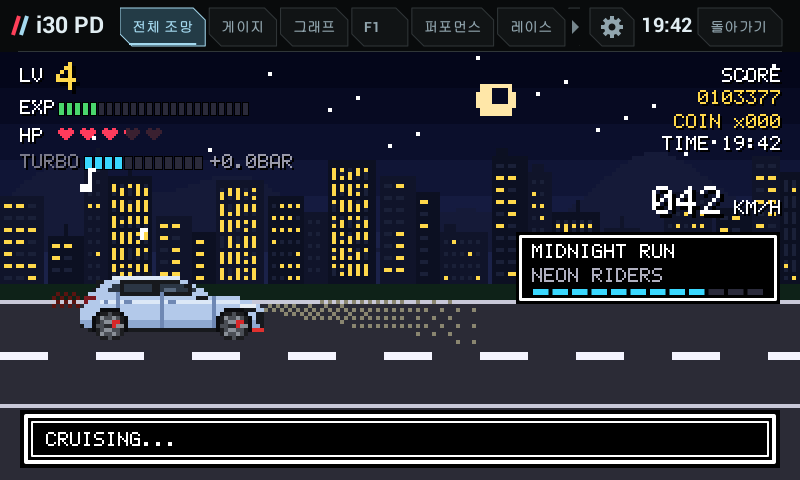
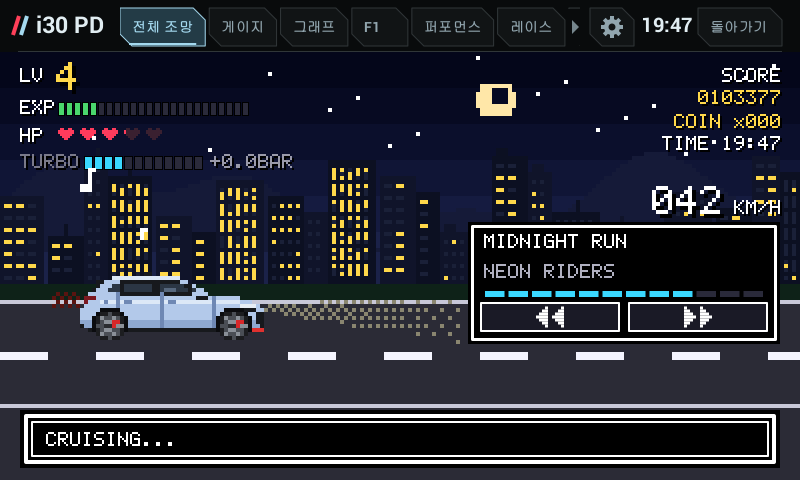
8비트 now playing: a bigger box (310 x 120, a 16 x 16 cover) with previous / next keys along the bottom
The keys send the media command the cassette's keys use (CassetteCluster.keyCmd, read by VehicleDash after the tap)
and flash yellow for a moment.

Changed region(s): [[0.5625, 0.4375, 1.0, 0.7188], [0.9688, 0.2812, 1.0, 0.3125], [0.8438, 0.0312, 0.875, 0.0625]]

diff --git a/shared/src/com/veloster/vehicle/PixelCluster.java b/shared/src/com/veloster/vehicle/PixelCluster.java
@@ -240,8 +240,8 @@ final class PixelCluster extends ClusterKit {
     @Override boolean showsMusic(){return !chase&&playing();}
     private boolean playing(){return music!=null&&music.playState==1&&music.title!=null&&music.title.length()>0;}
     // ---- now playing: a dialog box on the right, the cover shrunk to 14 x 14 pixels in a small palette ----------------
-    private static final float NP_L=516,NP_T=232,NP_R=780,NP_B=304;
-    private Bitmap npArt,npArtFrom;private String npTrack="";private long npSince;
+    private static final float NP_L=468,NP_T=222,NP_R=780,NP_B=344,BTN_T=NP_B-42,BTN_B=NP_B-12,BTN_MID=(NP_L+NP_R)/2;
+    private Bitmap npArt,npArtFrom;private String npTrack="";private long npSince,npPressAt;private int npPress;
     private void nowPlaying(Canvas c){
         if(!playing())return;
         String trk=music.title+"|"+music.artist;if(!trk.equals(npTrack)){npTrack=trk;npSince=now;}   // a new track starts at its first letter, 1.5 s still
@@ -249,19 +249,27 @@ final class PixelCluster extends ClusterKit {
         float tx=NP_L+16;
         if(artwork!=null){
             if(npArtFrom!=artwork){npArtFrom=artwork;npArt=pixelArt(artwork);}
-            blit(c,npArt,0,0,14,14,NP_L+12,NP_T+12,NP_L+12+48,NP_T+12+48);outline(c,NP_L+10,NP_T+10,NP_L+62,NP_T+62,0,2,0xff3a3a4a);tx=NP_L+72;
+            blit(c,npArt,0,0,16,16,NP_L+12,NP_T+12,NP_L+12+64,NP_T+12+64);outline(c,NP_L+10,NP_T+10,NP_L+78,NP_T+78,0,2,0xff3a3a4a);tx=NP_L+88;
         }
         float avail=NP_R-14-tx;
-        // the title marquees when it does not fit, the artist sits still under it
         Bitmap tb=label(music.title,W);
-        c.save();c.clipRect(tx,NP_T+10,tx+avail,NP_T+34);
-        marquee(c,tb,tx,NP_T+12,avail);
-        c.restore();
+        c.save();c.clipRect(tx,NP_T+10,tx+avail,NP_T+38);marquee(c,tb,tx,NP_T+12,avail);c.restore();
         String ar=music.artist==null?"":music.artist;
-        if(ar.length()>0){Bitmap ab=label(ar,0xffb0b0c0);c.save();c.clipRect(tx,NP_T+34,tx+avail,NP_T+54);marquee(c,ab,tx,NP_T+36,avail);c.restore();}
+        if(ar.length()>0){Bitmap ab=label(ar,0xffb0b0c0);c.save();c.clipRect(tx,NP_T+40,tx+avail,NP_T+66);marquee(c,ab,tx,NP_T+42,avail);c.restore();}
         // progress as blocks, like the EXP bar
-        if(music.durationMs>0&&music.positionMs>=0){int n=12,lit=Math.round(clamp(music.positionMs/(float)music.durationMs,0,1)*n);float bw=(avail)/n;
-            for(int i=0;i<n;i++){fill(c,tx+i*bw,NP_T+56,tx+(i+1)*bw-2,NP_T+64,0xff000000);fill(c,tx+i*bw+1,NP_T+57,tx+(i+1)*bw-3,NP_T+63,i<lit?0xff3ad8ff:0xff2a2a3a);}}
+        if(music.durationMs>0&&music.positionMs>=0){int n=12,lit=Math.round(clamp(music.positionMs/(float)music.durationMs,0,1)*n);float bw=avail/n;
+            for(int i=0;i<n;i++){fill(c,tx+i*bw,NP_T+68,tx+(i+1)*bw-2,NP_T+76,0xff000000);fill(c,tx+i*bw+1,NP_T+69,tx+(i+1)*bw-3,NP_T+75,i<lit?0xff3ad8ff:0xff2a2a3a);}}
+        // previous / next: two pixel keys along the bottom, yellow for a moment when pressed
+        for(int k=0;k<2;k++){float l=k==0?NP_L+12:BTN_MID+4,r=k==0?BTN_MID-4:NP_R-12;boolean hot=npPress==k+1&&now-npPressAt<220;
+            fill(c,l,BTN_T,r,BTN_B,hot?Y:0xff1a1a26);outline(c,l,BTN_T,r,BTN_B,0,2,hot?Y:W);
+            int ink=hot?0xff000000:W;float cx=(l+r)/2,cy=(BTN_T+BTN_B)/2;
+            for(int t=0;t<2;t++){float ox=cx+(t==0?-14:2);   // two pixel triangles: ◀◀ or ▶▶, 3 px rows
+                for(int row=0;row<7;row++){float w2=(row<4?row+1:7-row)*3,x0=k==0?ox+12-w2:ox;fill(c,x0,cy-10.5f+row*3,x0+w2,cy-7.5f+row*3,ink);}}}
+    }
+    /** The previous / next keys of the now-playing box: the media command goes out the way the cassette's keys send theirs. */
+    @Override boolean tap(float x,float y){
+        if(chase||!playing()||y<BTN_T-4||y>BTN_B+4||x<NP_L+8||x>NP_R-8)return false;
+        boolean prev=x<BTN_MID;CassetteCluster.keyCmd=prev?-1:1;npPress=prev?1:2;npPressAt=now;return true;
     }
     /** A label at 2 x, still when it fits, else (after 1.5 s at its start) scrolling left in whole pixels, a gap before it comes round. */
     private void marquee(Canvas c,Bitmap b,float x,float y,float avail){
@@ -269,10 +277,10 @@ final class PixelCluster extends ClusterKit {
         if(w<=avail){blit(c,b,0,0,b.getWidth(),b.getHeight(),x,y,x+w,y+h);return;}
         float gap=40,off=((Math.max(0,now-npSince-1500)/30)*2)%(w+gap);for(float xx=x-off;xx<x+avail;xx+=w+gap)blit(c,b,0,0,b.getWidth(),b.getHeight(),xx,y,xx+w,y+h);
     }
-    /** The cover at 14 x 14 with 3 bits a channel: drawn back at 4 x 4 per pixel it reads as game art. */
+    /** The cover at 16 x 16 with 3 bits a channel: drawn back at 4 x 4 per pixel it reads as game art. */
     private static Bitmap pixelArt(Bitmap src){
-        Bitmap b=bitmap(14,14);android.graphics.Rect sr=new android.graphics.Rect();sr.set(0,0,src.getWidth(),src.getHeight());android.graphics.RectF dr=new android.graphics.RectF();dr.set(0,0,14,14);new Canvas(b).drawBitmap(src,sr,dr,new Paint(Paint.FILTER_BITMAP_FLAG));
-        int[] px=new int[196];b.getPixels(px,0,14,0,0,14,14);for(int i=0;i<px.length;i++)px[i]=0xff000000|(px[i]&0xe0e0e0);b.setPixels(px,0,14,0,0,14,14);return b;
+        Bitmap b=bitmap(16,16);android.graphics.Rect sr=new android.graphics.Rect();sr.set(0,0,src.getWidth(),src.getHeight());android.graphics.RectF dr=new android.graphics.RectF();dr.set(0,0,16,16);new Canvas(b).drawBitmap(src,sr,dr,new Paint(Paint.FILTER_BITMAP_FLAG));
+        int[] px=new int[256];b.getPixels(px,0,16,0,0,16,16);for(int i=0;i<px.length;i++)px[i]=0xff000000|(px[i]&0xe0e0e0);b.setPixels(px,0,16,0,0,16,16);return b;
     }
     /** A label at half scale with a one-pixel shadow: the pixel font when it has every letter, otherwise the system face
      *  drawn small without smoothing (Hangul and the like), so both come out as chunky pixels at 2 x. */

diff --git a/i30pd_port/app/TABS.md b/i30pd_port/app/TABS.md
@@ -220,7 +220,7 @@ PD에서 새로 고를 수 있는 항목(순간 연료소모 · 평균 연비 ·
 
 ![](screens/9_cluster_list.png)
 
-8비트(옆 화면)는 노래가 재생 중이면 오른쪽에 곡 상자가 뜬다(2026-11-10, beta): 앨범 아트를 14×14 도트·적은 색으로 줄여 4배로, 제목·가수(길면 곡이 바뀐 뒤 1.5초 멈췄다가 옆으로 흐름), 재생 위치 블록 12칸. 영문은 화면의 도트 글꼴, 한글 등은 시스템 글꼴을 작게(부드럽게 하지 않고) 그려 2배로 키운다. 곡 상자가 있는 동안 위쪽 곡 바뀜 알림 막대는 안 뜬다. 아케이드(뒤 화면)는 그대로.
+8비트(옆 화면)는 노래가 재생 중이면 오른쪽에 곡 상자가 뜬다(2026-11-10, beta): 상자 310×120(오른쪽 468~780). 앨범 아트를 16×16 도트·적은 색으로 줄여 4배로, 제목·가수(길면 곡이 바뀐 뒤 1.5초 멈췄다가 옆으로 흐름), 재생 위치 블록 12칸, 아래에 이전 ◀◀·다음 ▶▶ 버튼(누르면 잠깐 노랗게, 카세트 건반과 같은 경로로 미디어 명령). 영문은 화면의 도트 글꼴, 한글 등은 시스템 글꼴을 작게(부드럽게 하지 않고) 그려 2배로 키운다. 곡 상자가 있는 동안 위쪽 곡 바뀜 알림 막대는 안 뜬다. 아케이드(뒤 화면)는 그대로.
 
 | 택시 미터기 | 80년대 디지털 | 전투기 HUD |
 |---|---|---|
